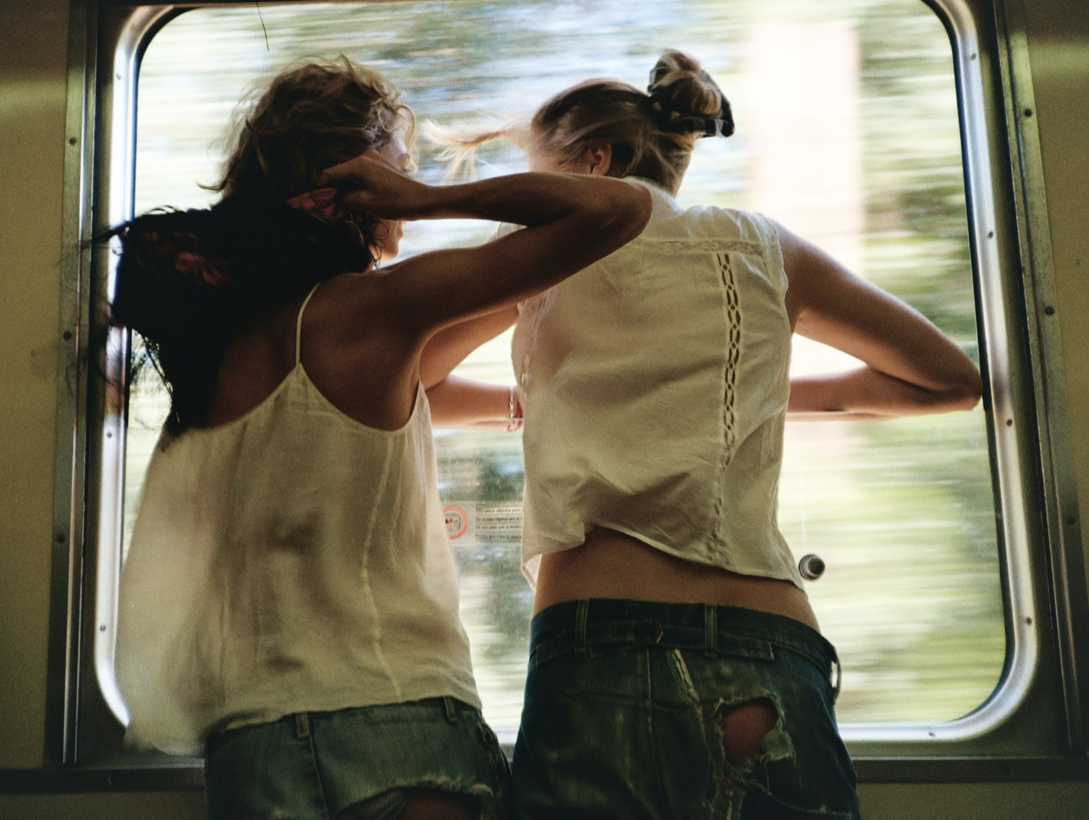
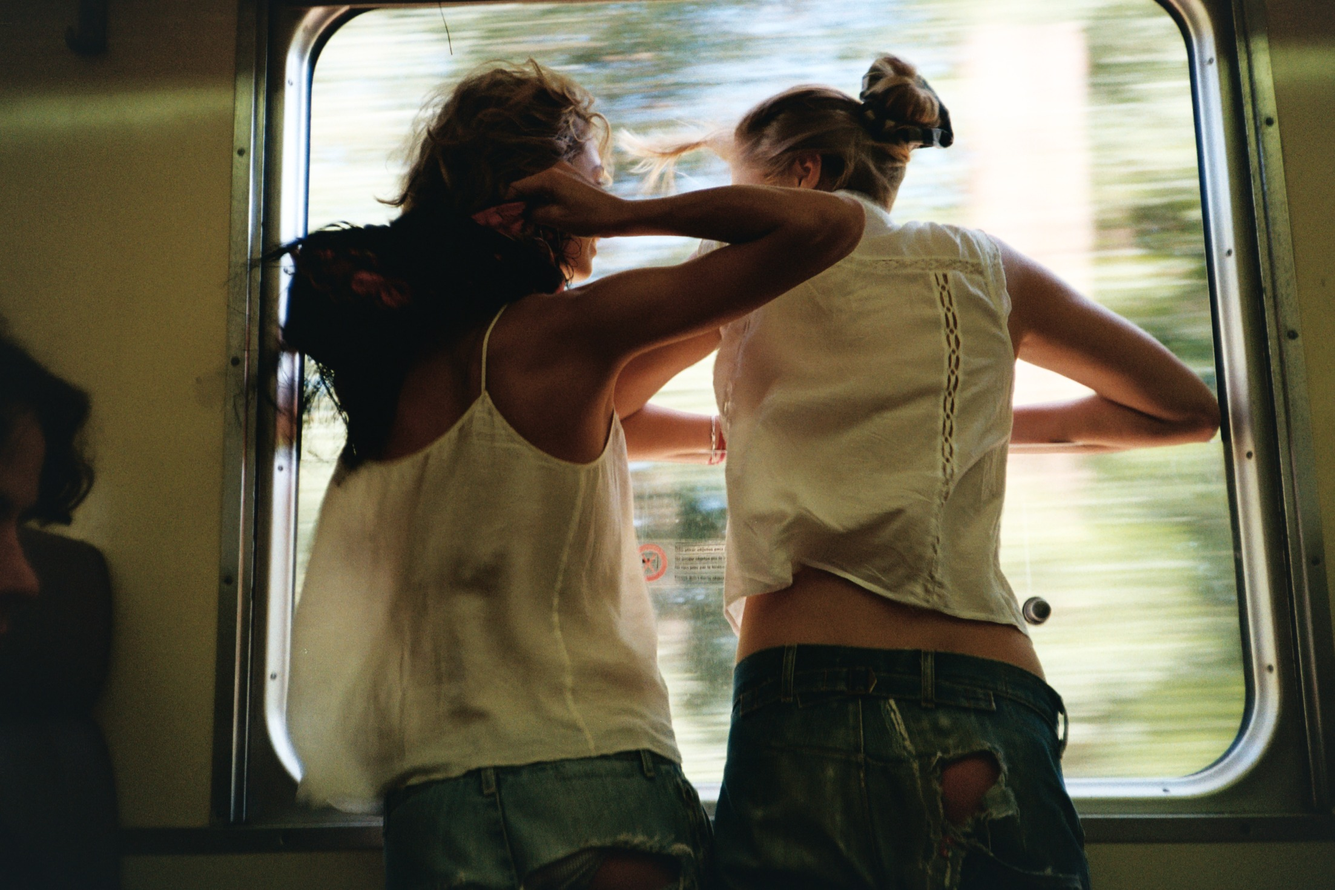
Re-encode dancing.jpg (unique bytes), add slide onerror fallback, replace film-archive/5
- Re-encode dancing.jpg from source at quality=88 → 286KB vs 473KB (genuinely unique file, forces CDN refresh)
- Add probeImg.onerror handler so slideshow recovers if any image fails to load
- Add probeImg.complete check for already-cached images
- Replace film-archive/5.jpg with AA026A.tif (2205x1470)

diff --git a/index.html b/index.html
@@ -1445,17 +1445,23 @@ function goSlide(idx) {
     }
     projectImageBg.style.opacity = '0';
 
-    if (probeImg) probeImg.onload = null;
+    if (probeImg) { probeImg.onload = null; probeImg.onerror = null; }
     probeImg = new Image();
-    probeImg.onload = () => {
-      lockSlideSize(probeImg.naturalWidth, probeImg.naturalHeight);
+    const showSlide = () => {
+      lockSlideSize(probeImg.naturalWidth || projectImageWrap.offsetWidth, probeImg.naturalHeight || projectImageWrap.offsetHeight);
       projectImageBg.src = src;
       requestAnimationFrame(() => {
         projectImageBg.style.opacity = '1';
         if (hasPrev) setTimeout(() => { prevImgEl.style.opacity = '0'; }, 400);
       });
     };
+    probeImg.onload = showSlide;
+    probeImg.onerror = () => {
+      if (hasPrev) prevImgEl.style.opacity = '0';
+      projectImageBg.style.opacity = '1';
+    };
     probeImg.src = src;
+    if (probeImg.complete && probeImg.naturalWidth > 0) showSlide();
 
     [slideIdx + 1, slideIdx - 1].forEach(adj => {
       const adjSrc = slideImgs[((adj % slideImgs.length) + slideImgs.length) % slideImgs.length];
